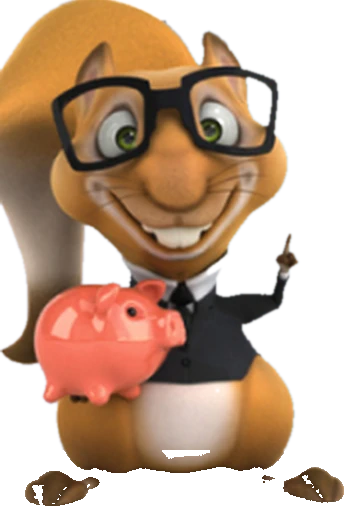
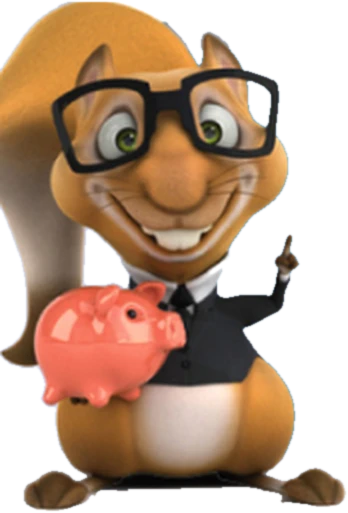
Eichhörnchen: Füße sauber freigestellt

diff --git a/index.html b/index.html
@@ -51,7 +51,7 @@
     <h1 id="hero-h"><span data-only="klar">Steuern. <em>Persönlich</em> beraten.</span><span data-only="nuss">Wir knacken Ihre <em>Steuernuss.</em></span></h1>
     <p class="hero-satz"><span data-only="klar">Familienunternehmen, Freiberufler und Privatpersonen. Zwei Büros, feste Ansprechpartner, Belege per App.</span><span data-only="nuss">Für Familienunternehmen, Freiberufler und Privatpersonen. Zwei Büros, feste Ansprechpartner, Belege per App.</span></p>
     <div class="hero-knoepfe"><a class="btn" href="kontakt.html">Nachricht schreiben</a><a class="btn btn-zweit" href="digital.html">Belege senden</a></div>
-    <div data-only="nuss"><picture><source srcset="img/eich-ganz.webp" type="image/webp"><img class="hero-figur eich-hero" src="img/eich-ganz.png" alt="" width="344" height="506" loading="lazy"></picture></div>
+    <div data-only="nuss"><picture><source srcset="img/eich-ganz.webp" type="image/webp"><img class="hero-figur eich-hero" src="img/eich-ganz.png" alt="" width="348" height="513" loading="lazy"></picture></div>
   </div>
   <div class="hero-bilder">
     <figure class="b1"><picture><source srcset="img/empfang.webp" type="image/webp"><img src="img/empfang.jpg" alt="Empfang der Kanzlei in Neuenkirchen mit Holzbuchstaben „Willkommen“ und dem Logo an der Wand" width="920" height="404"></picture><figcaption>Empfang, Alphons-Hecking-Platz 11</figcaption></figure>
